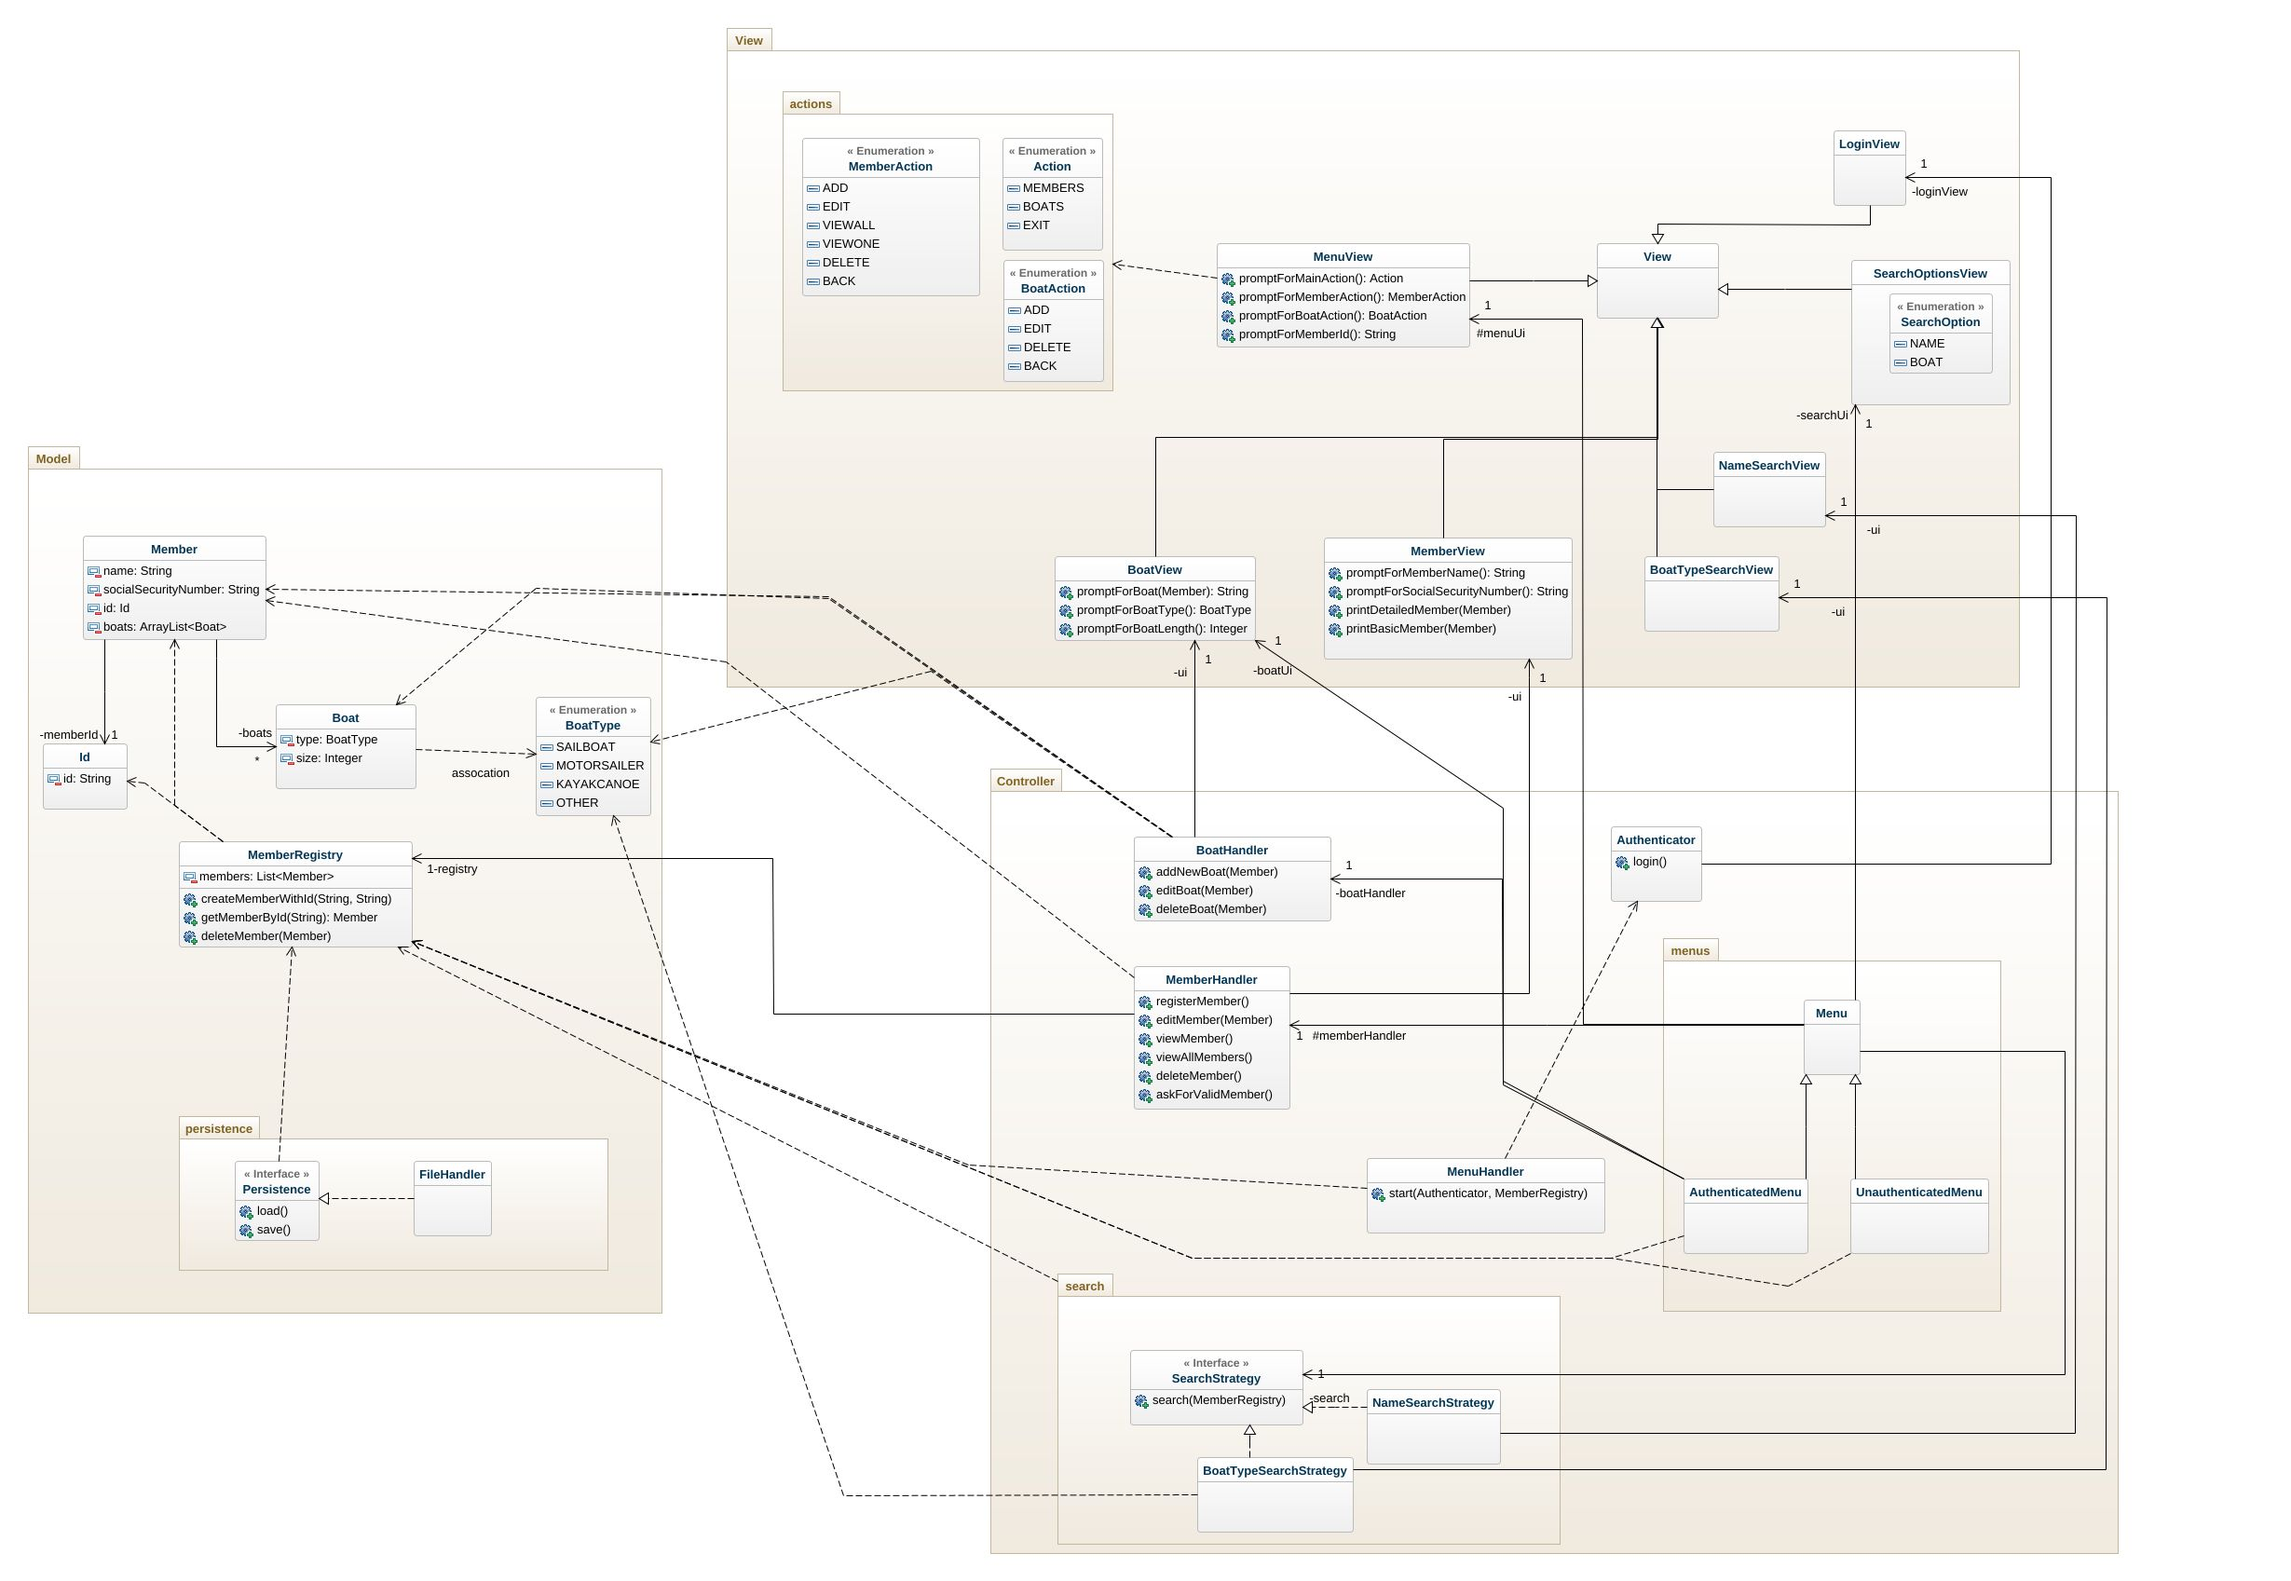
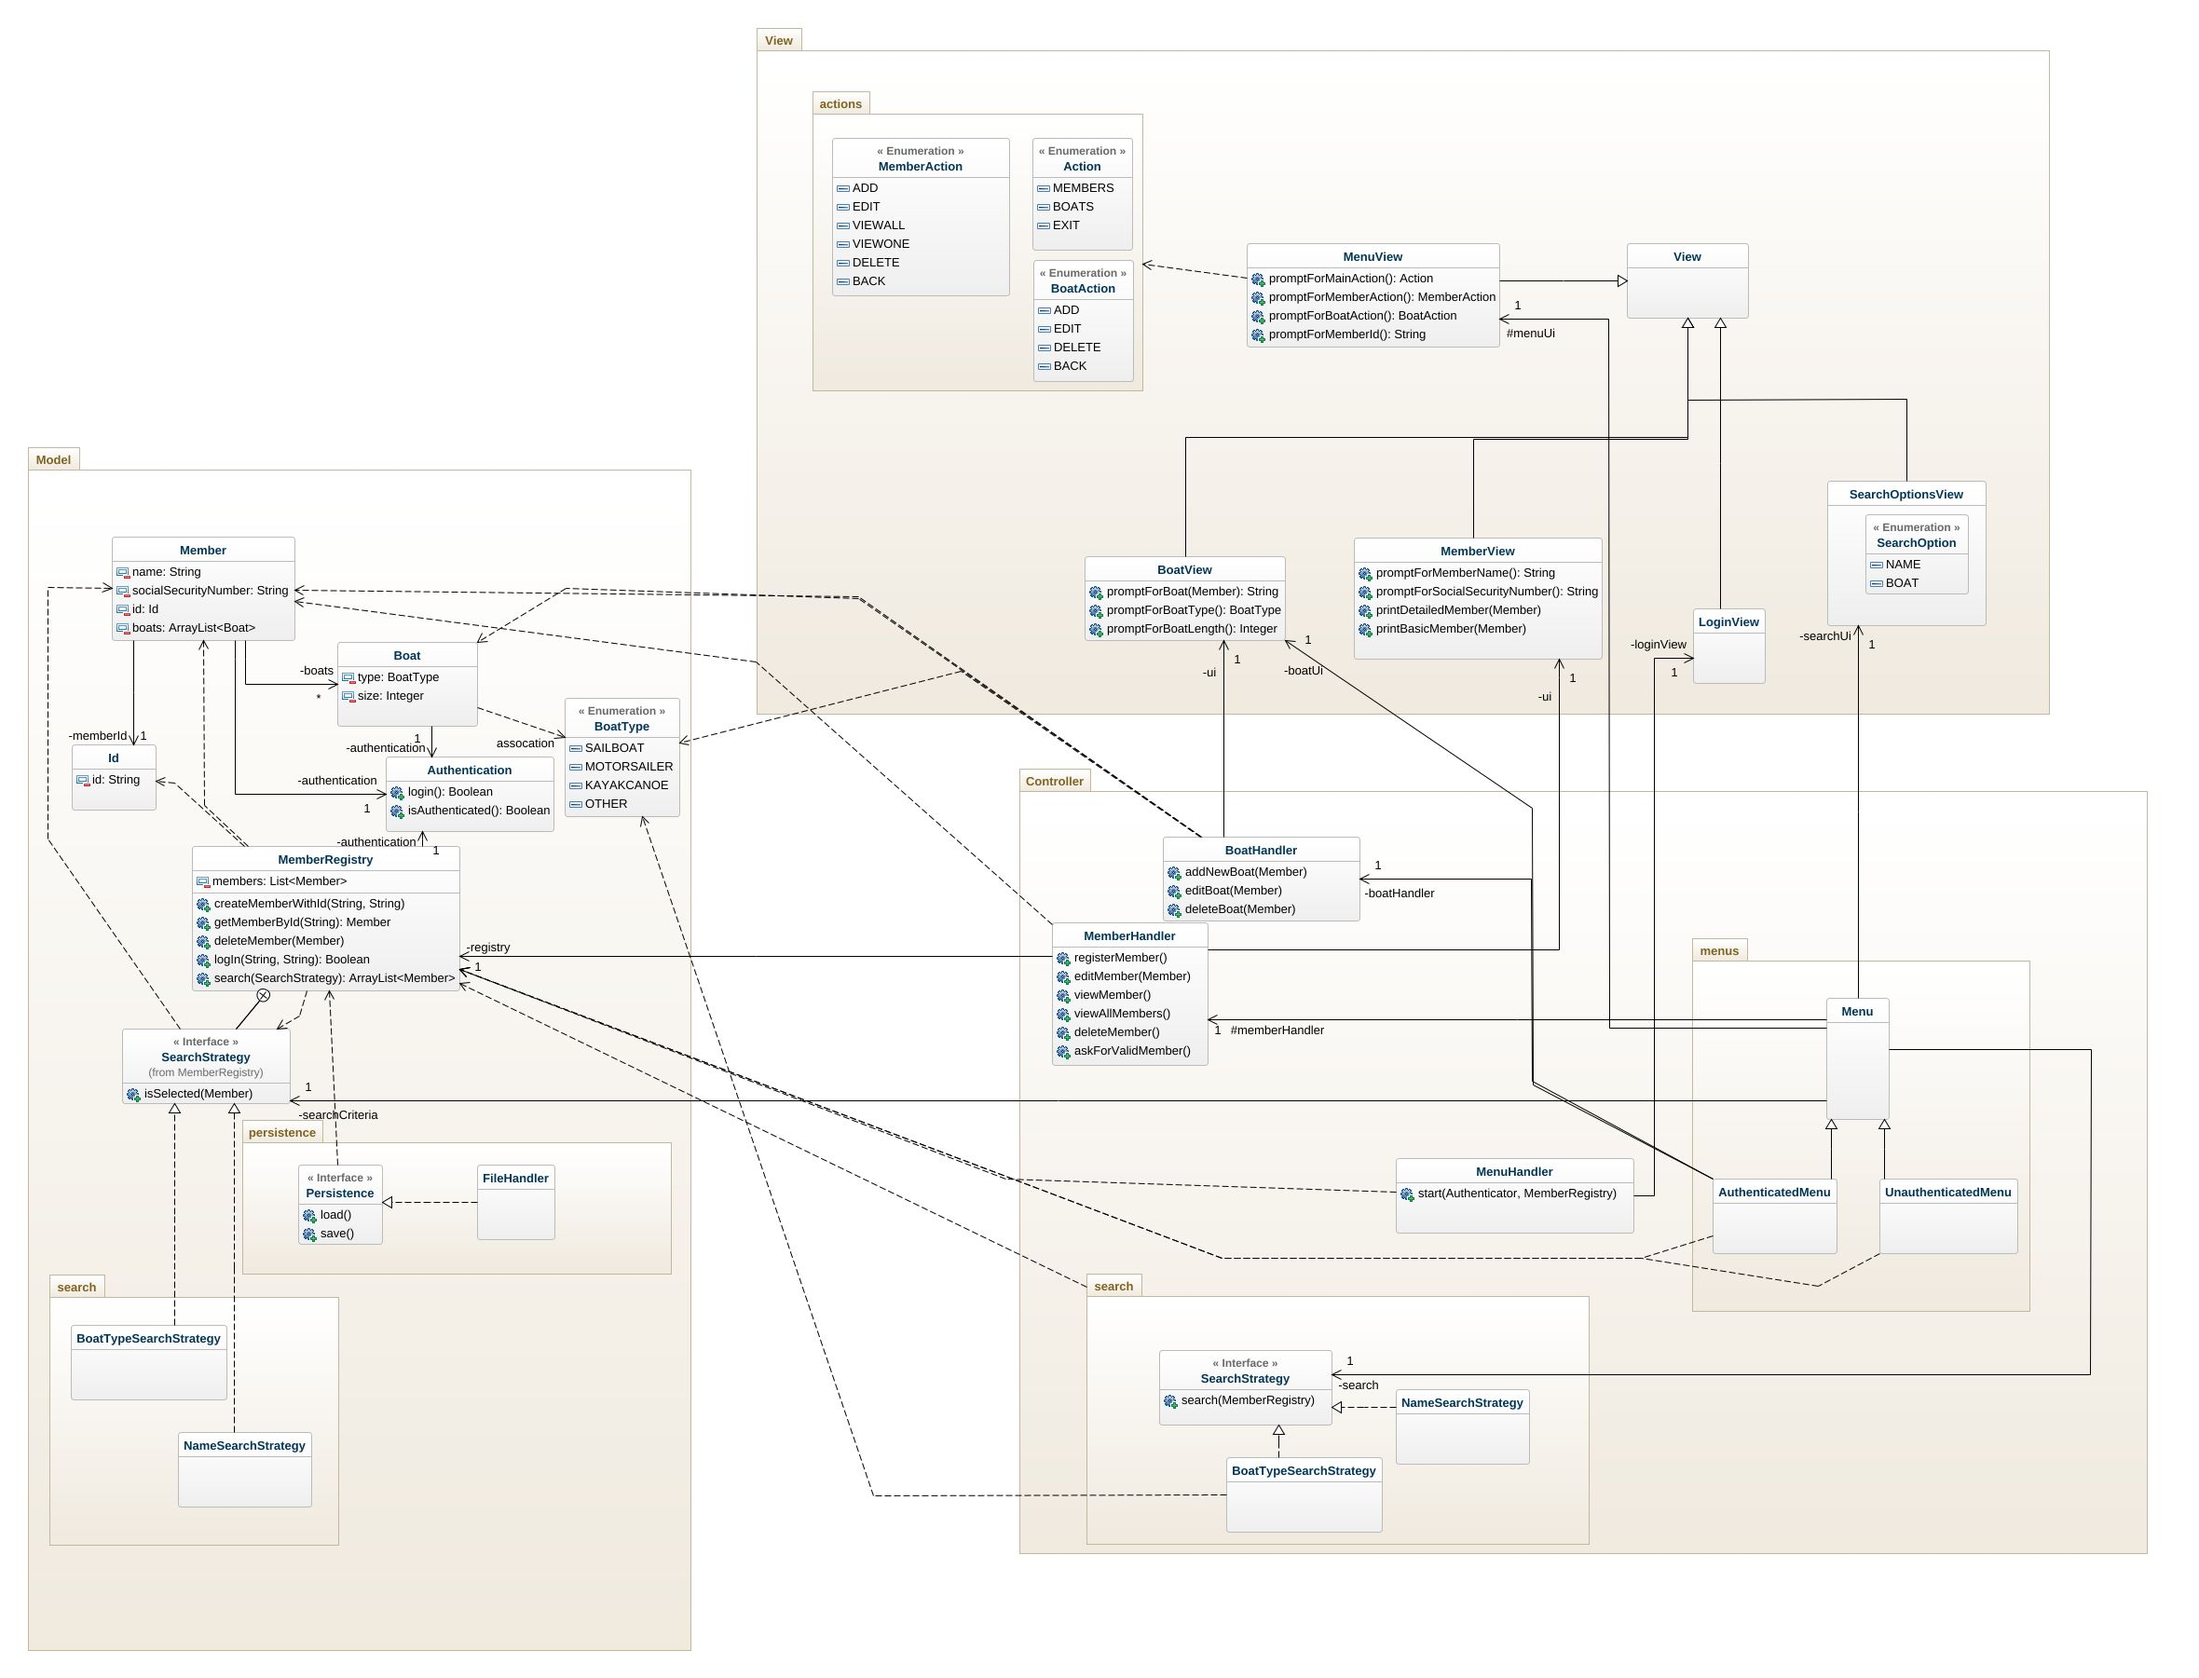
Update documentation

diff --git a/README.md b/README.md
@@ -3,18 +3,21 @@
 ## How to Build and Run the Application
 
 ### :hammer: Build
+
 `./gradlew build`
 
 ### :rocket: Run
+
 `./gradlew run -q --console=plain`
 
 ## How to Use the Application
 
 - Navigate through the application by choosing among the presented menu options.
 
-### :key: To log in: 
-  - username: `santa`
-  - password: `rudolph`
+### :key: To log in:
+
+- username: `santa`
+- password: `rudolph`
 
 ### :sparkles: Functionality
 
@@ -23,7 +26,12 @@
 - Handle boats (add, edit, delete)
 
 ### :memo: Design Overview
+
 [Design Document](design.md)
+
+### :exclamation: Authentication not fully implemented
+
+  The authentication control for actions that create, change and delete information has only been partially implemented. This is now implemented for the create member and create boat functionality. In a complete implementations this should ofcourse also consider all actions that changes information.
 
 ---
 
